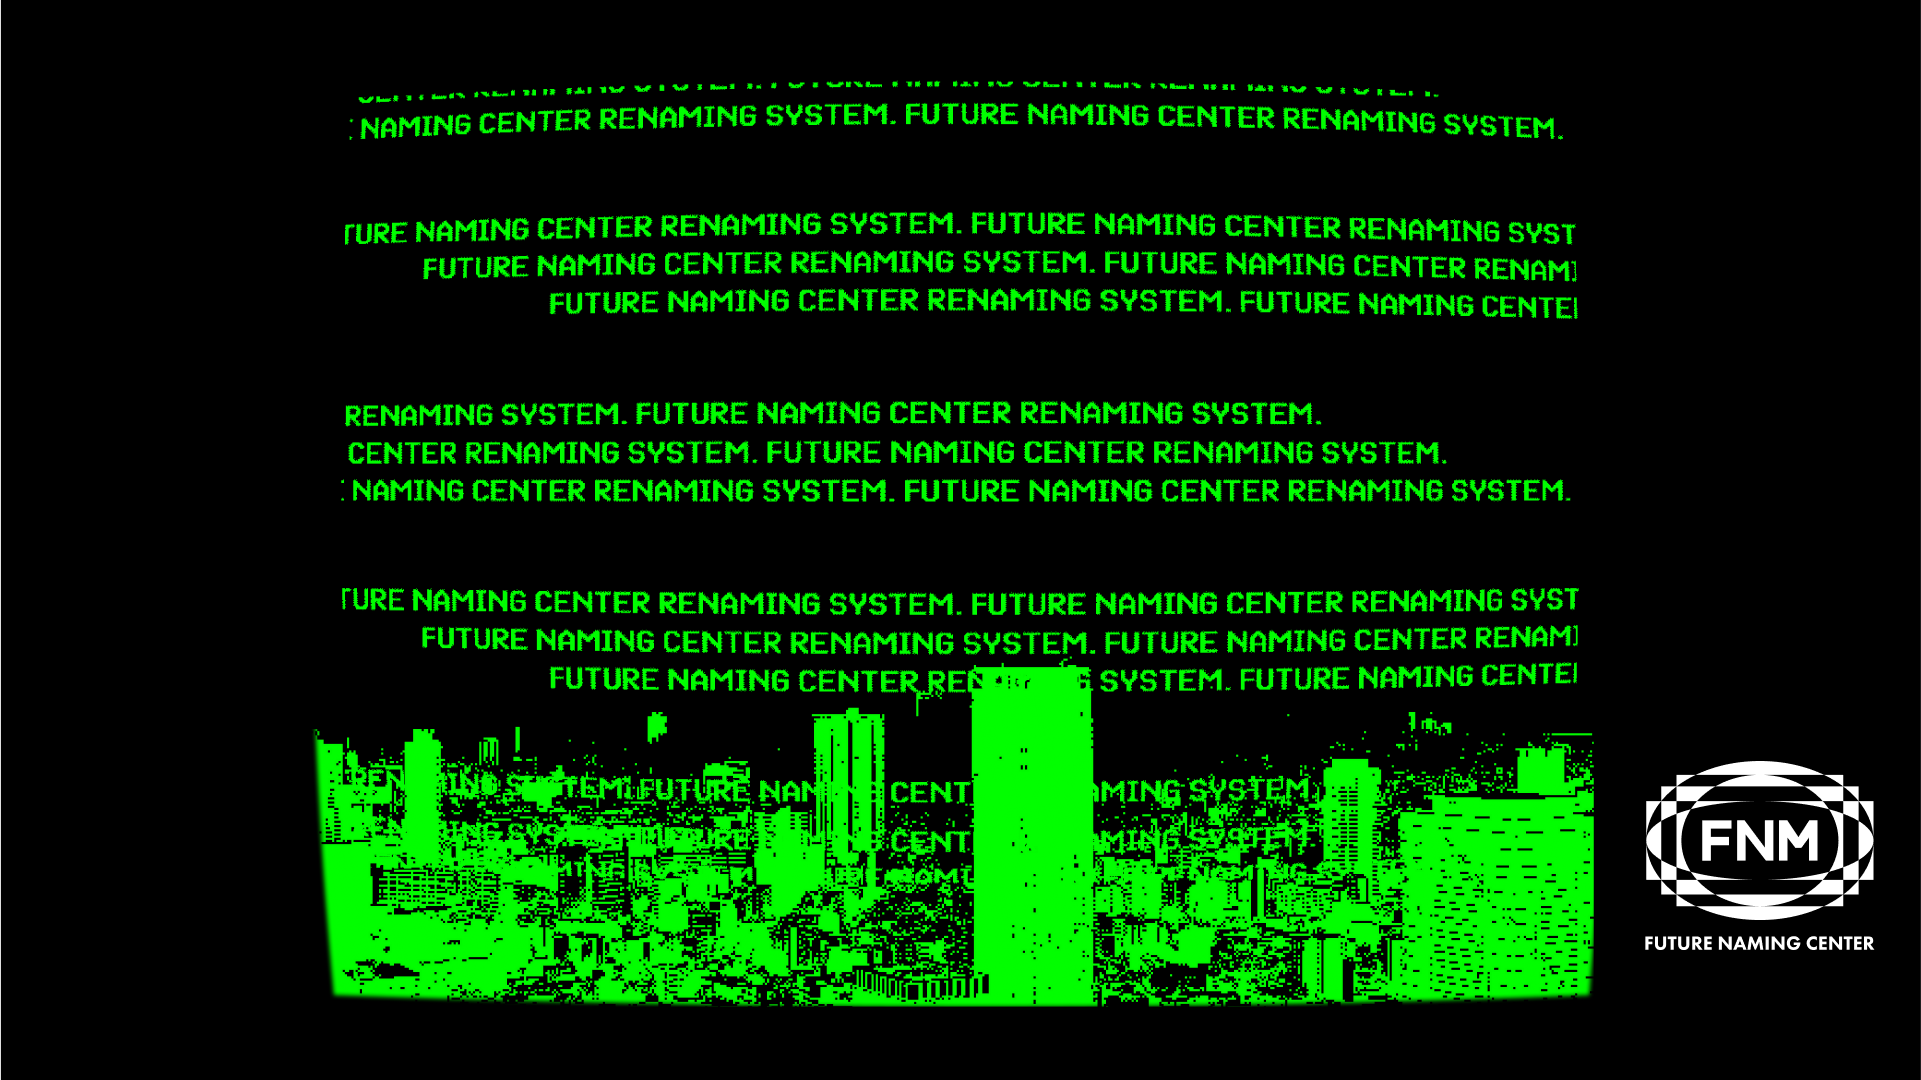
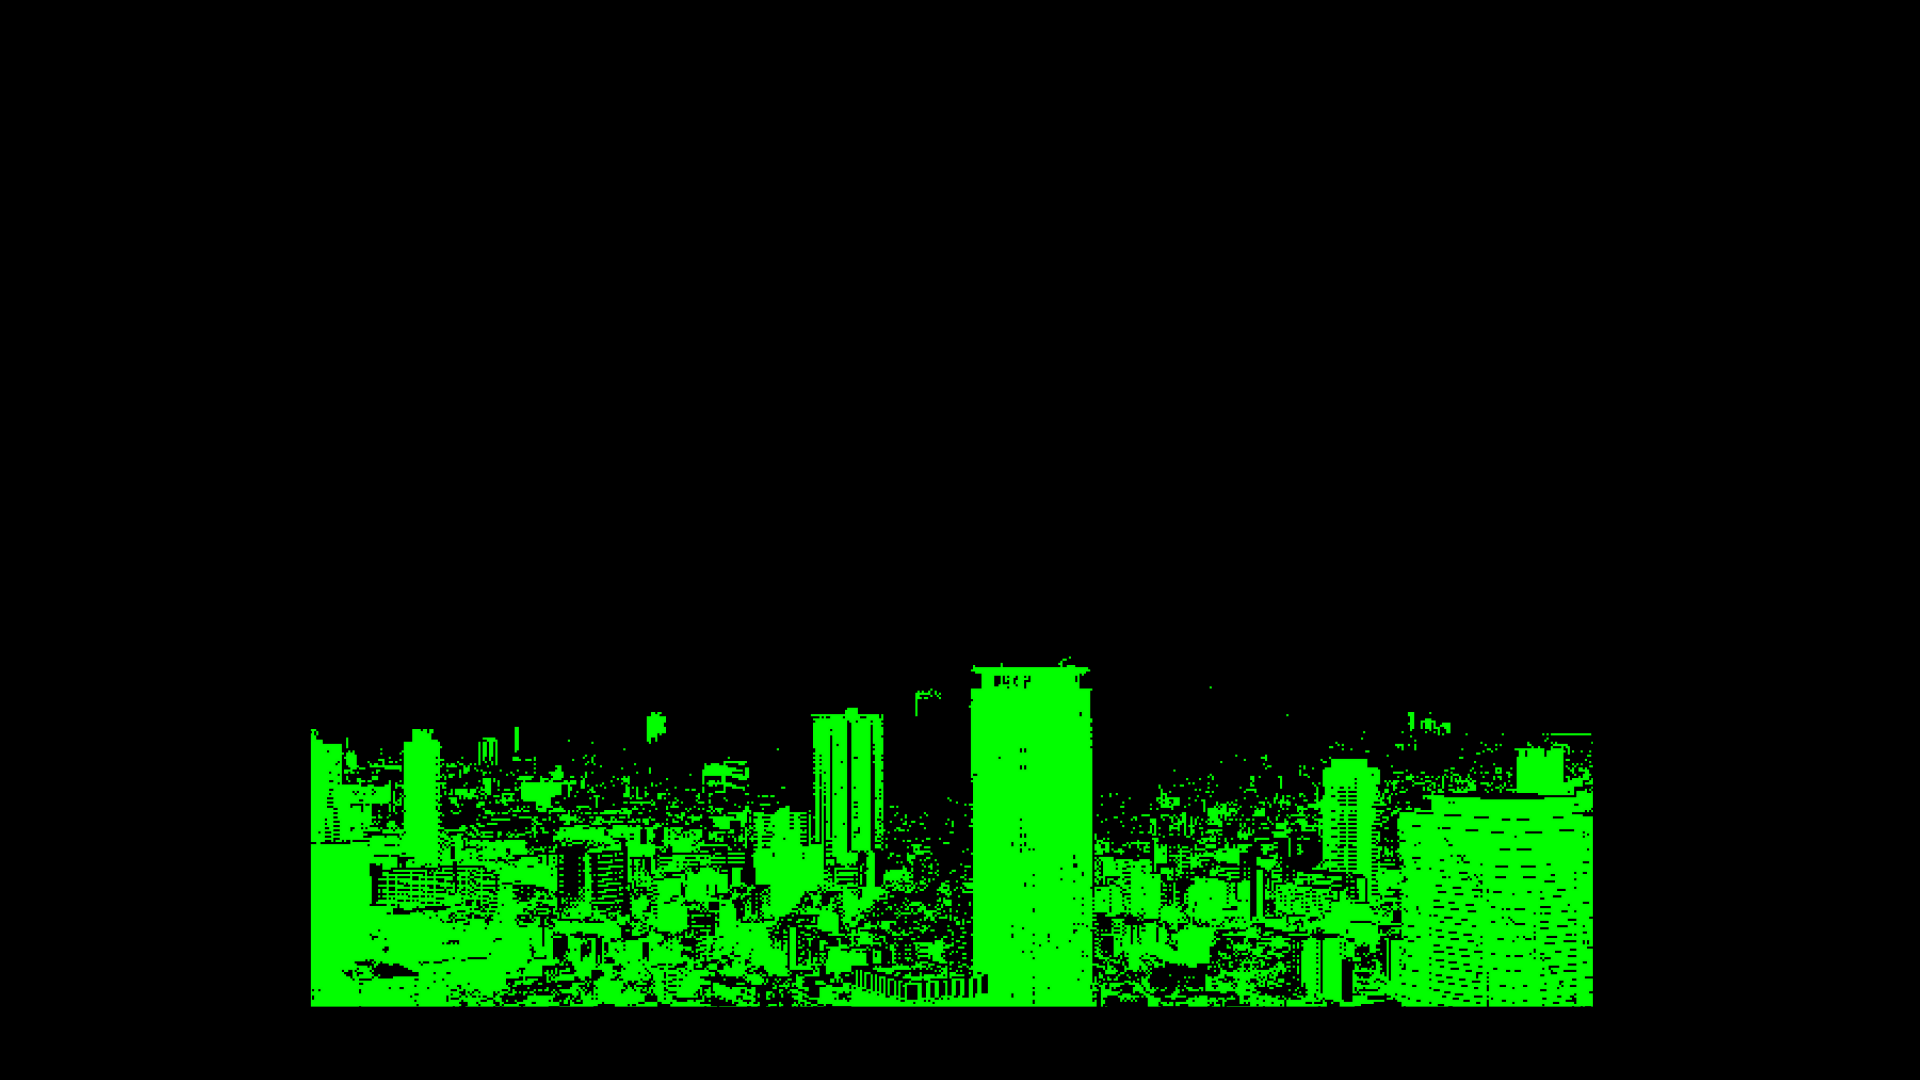
feat: movingText"

diff --git a/src/app/person/layout.tsx b/src/app/person/layout.tsx
@@ -1,20 +1,18 @@
+"use client";
+
+import movingText from "@/app/assets/gif/personBgText.gif";
+import fncIcon from "@/app/assets/icon/fncLogo.png";
 import personBackground from "@/app/assets/image/personBg.png";
 import personBox from "@/app/assets/image/personBox.png";
 import Image from "next/image";
+import { useRouter } from "next/navigation";
 import ClientRecoilRoot from "../common/ClientRecoilRoot";
 
 export default function Layout({ children }: { children: React.ReactNode }) {
+  const router = useRouter();
   return (
     <ClientRecoilRoot>
       <div className="relative min-h-screen flex justify-center items-center">
-        <Image
-          src={personBackground}
-          className="object-cover -z-10"
-          alt="introBackground"
-          layout="fill"
-          priority={true}
-        />
-
         <div className="relative z-10">
           <div className="flex justify-center items-center text-white">
             <div className="relative">
@@ -27,6 +25,31 @@ export default function Layout({ children }: { children: React.ReactNode }) {
             </div>
           </div>
         </div>
+        <Image
+          src={personBackground}
+          className="object-cover -z-10"
+          alt="introBackground"
+          layout="fill"
+          priority={true}
+        />
+        <Image
+          className="absolute h-[90%] w-[75%]"
+          src={movingText}
+          alt="movingText"
+        />
+        <button
+          className="fixed bottom-[80px] right-5 cursor-pointer z-20 bg-[#ffffff]"
+          onClick={() => {
+            router.push("/");
+          }}
+        >
+          <Image
+            className="fixed bottom-[80px] right-5 w-[229px] h-[190px] cursor-pointer"
+            src={fncIcon}
+            alt="logoIcon"
+            priority
+          />
+        </button>
       </div>
     </ClientRecoilRoot>
   );

diff --git a/src/app/list/layout.tsx b/src/app/list/layout.tsx
@@ -1,4 +1,4 @@
-"use client"; // 클라이언트 컴포넌트로 설정
+"use client";
 
 import fncIcon from "@/app/assets/icon/fncLogo.png";
 import listBackground from "@/app/assets/image/listBackground.png";
